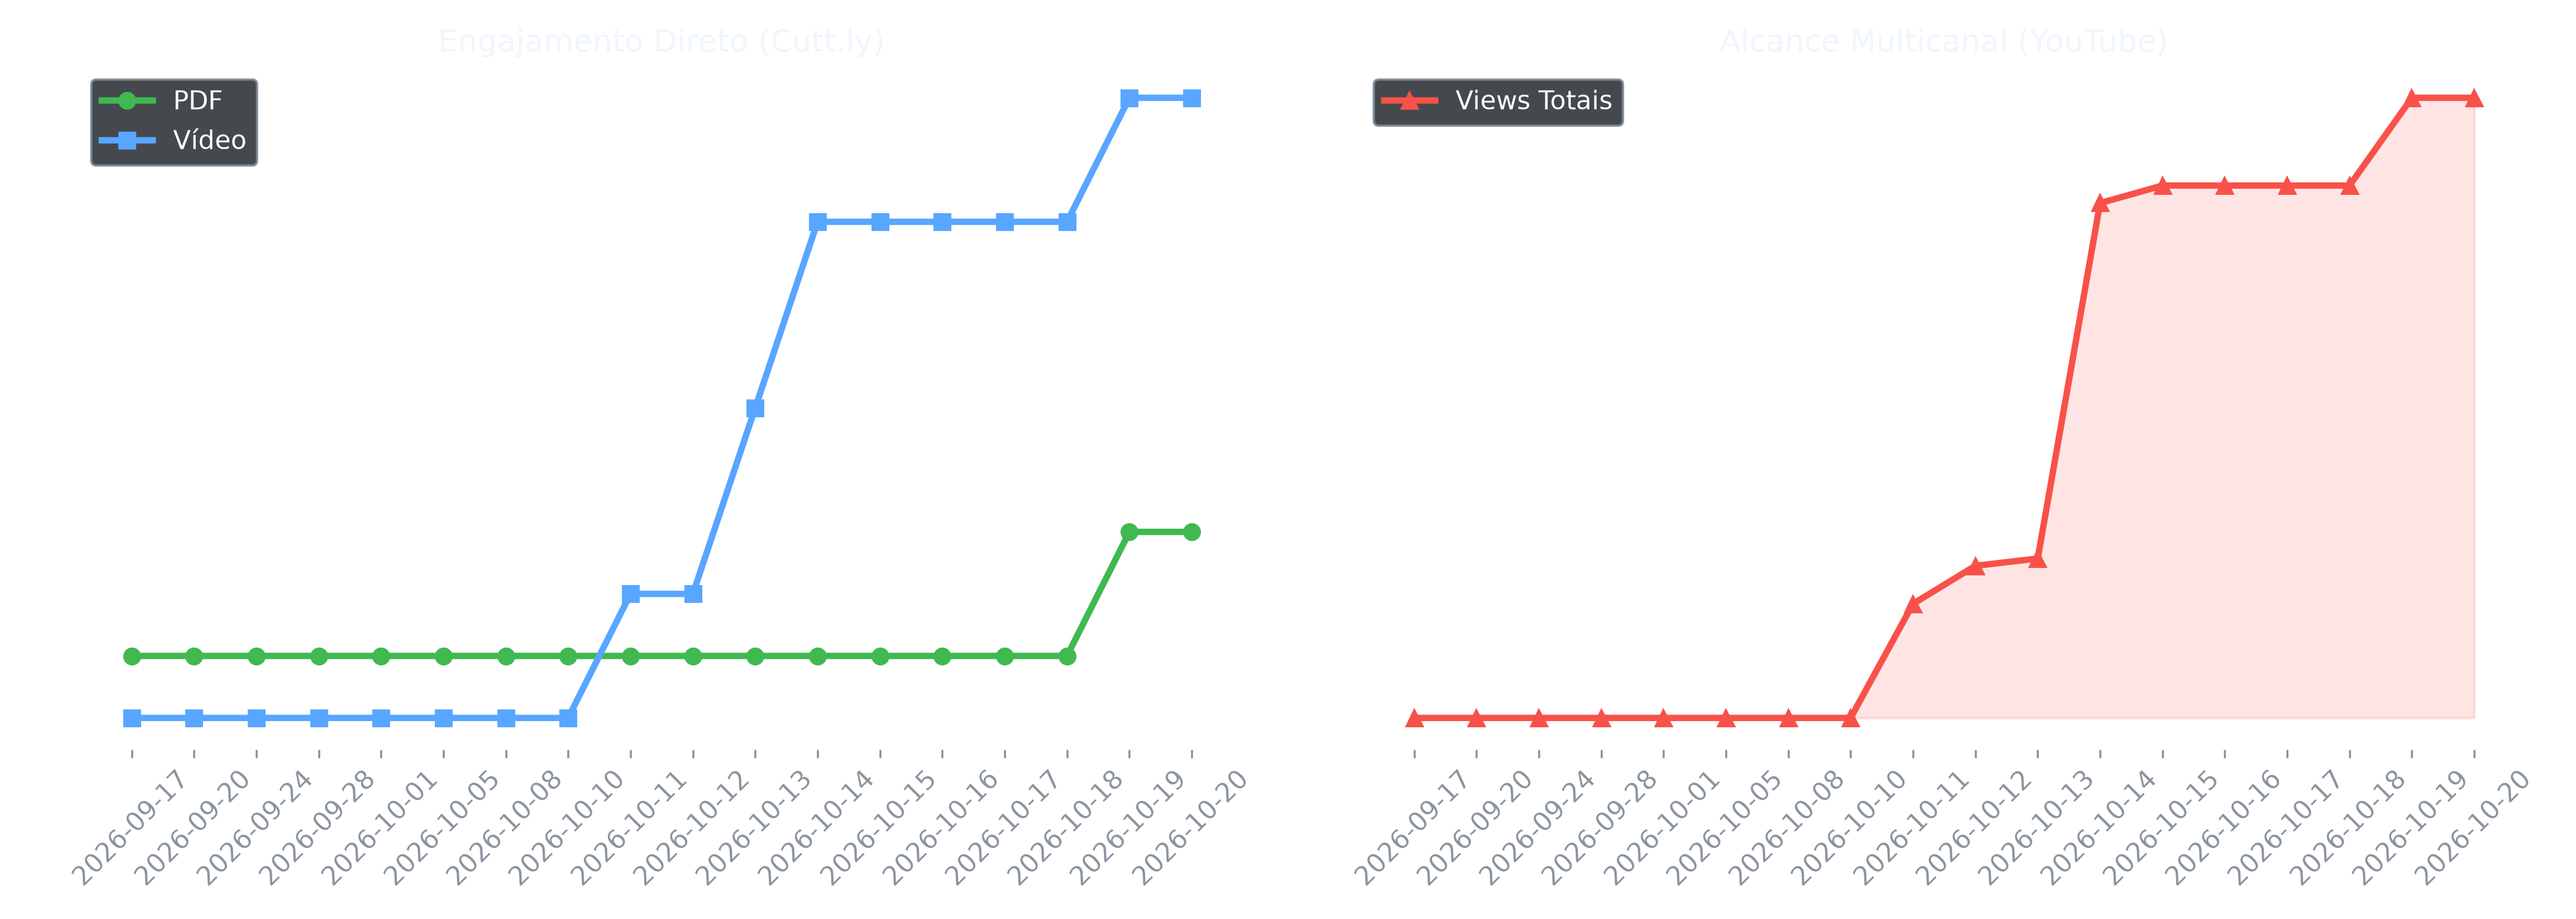
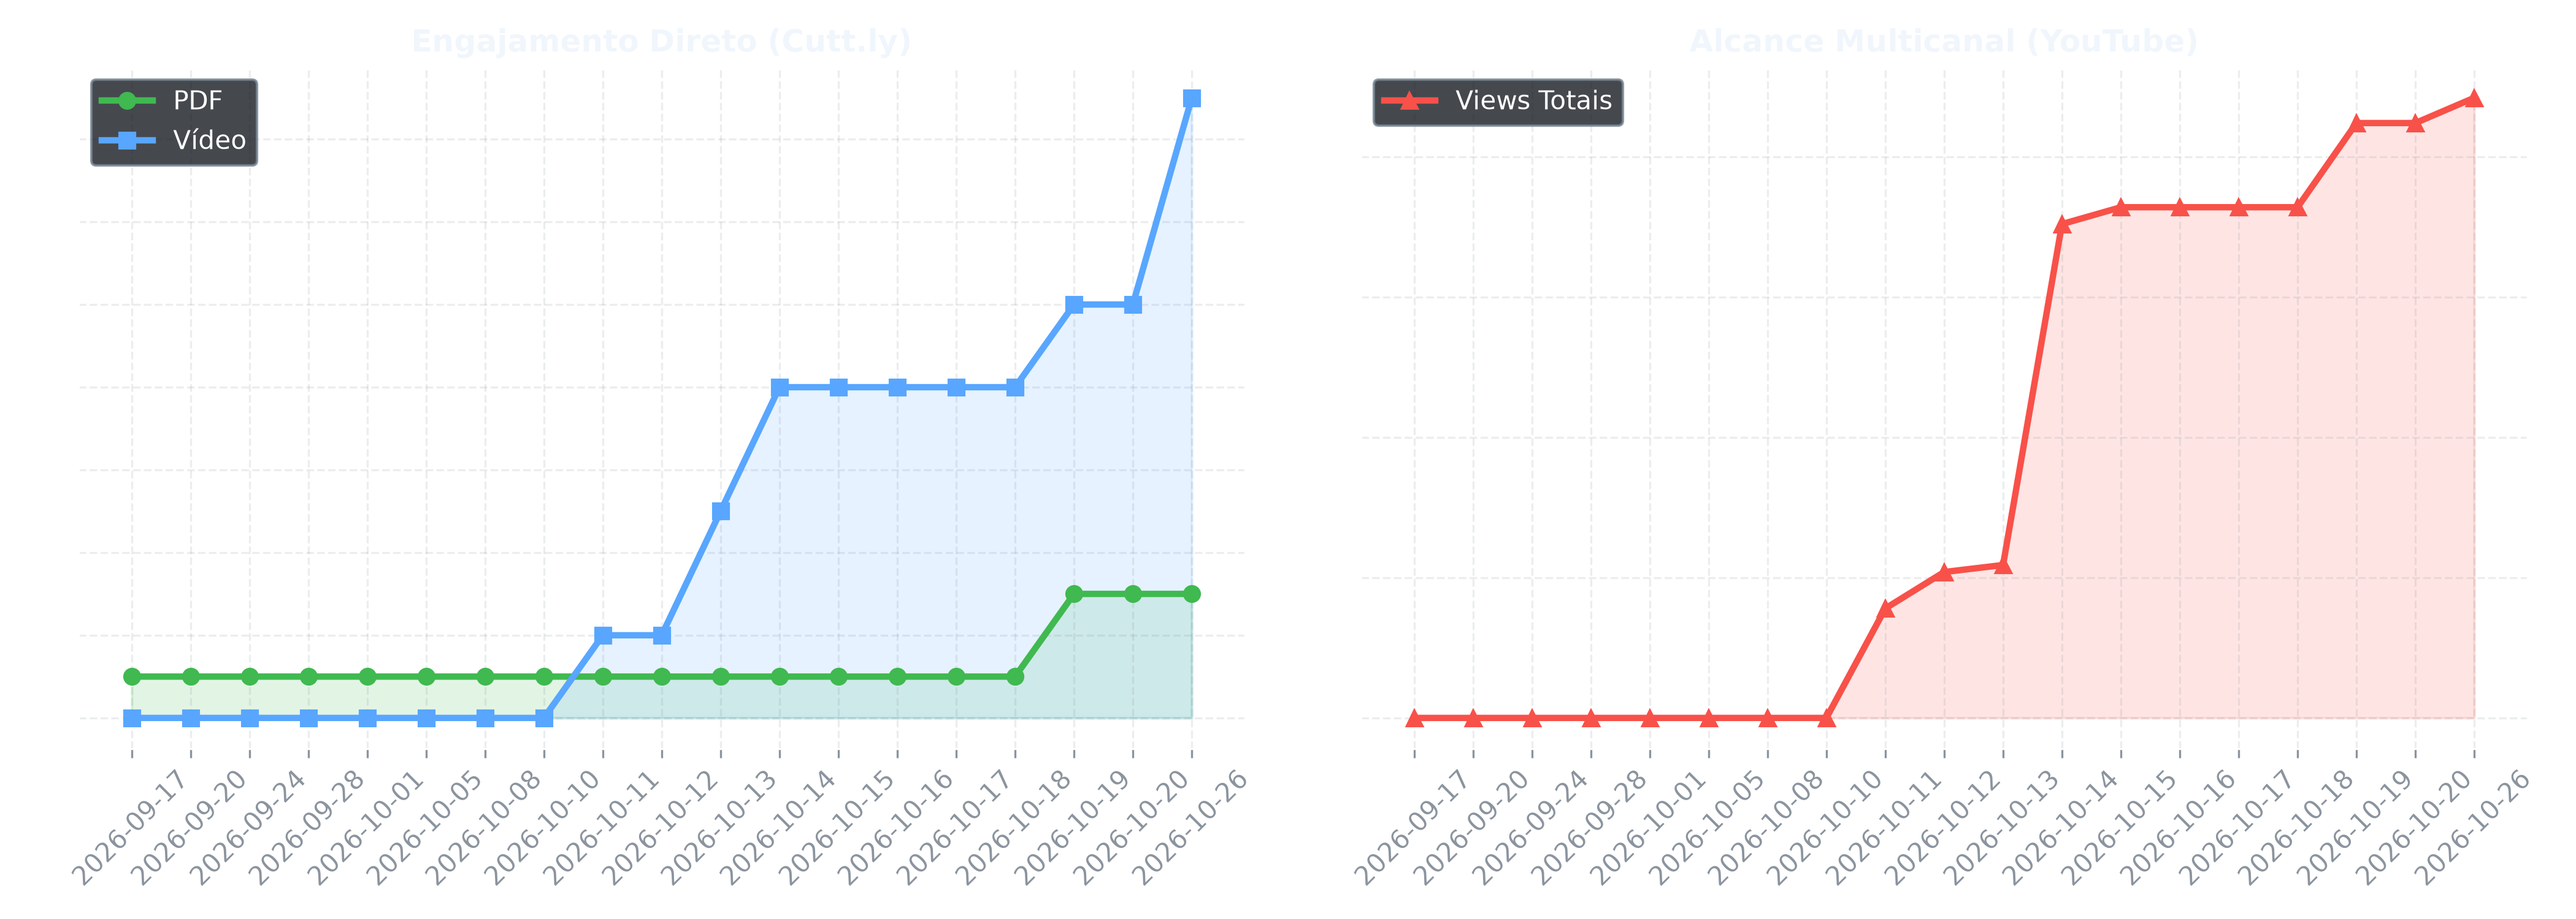
chore(telemetry): atualiza metricas para 441 views e 15 cliques via execucao local

diff --git a/README.md b/README.md
@@ -55,20 +55,20 @@ O monitoramento do projeto opera sob arquitetura bimodal, diferenciando o tráfe
 #### 1. Funil de Intenção Direta (Cutt.ly Regular API)
 Métricas rastreadas via links encurtados distribuídos nas campanhas ativas de WhatsApp:
 * 📄 **Adesão ao Material Escrito (PDF):** <!-- CLICKS_PDF_START -->**3**<!-- CLICKS_PDF_END --> download/confirmação (`cutt.ly/edu-ok`).
-* 🎬 **Acessos ao Vídeo Mestre Consolidado (141s):** <!-- CLICKS_VIDEO_START -->**10**<!-- CLICKS_VIDEO_END --> acessos direcionados (`cutt.ly/mini-guia-edu`).
-* 🕒 **Última sincronização:** <!-- DATE_START -->(Atualizado em 20/10/2026 às 09:21)<!-- DATE_END -->
+* 🎬 **Acessos ao Vídeo Mestre Consolidado (141s):** <!-- CLICKS_VIDEO_START -->**15**<!-- CLICKS_VIDEO_END --> acessos direcionados (`cutt.ly/mini-guia-edu`).
+* 🕒 **Última sincronização:** <!-- DATE_START -->(Atualizado em 26/10/2026 às 17:57)<!-- DATE_END -->
 
 #### 2. Alcance e Retenção Audiovisual (YouTube Data API v3 & Studio)
 Distribuição multicanal composta por 1 Vídeo Mestre integrador e 4 Microvídeos atômicos (Shorts):
 
 | Identificador | Artefato Audiovisual | Duração | Visualizações | Retenção Média | Função no Funil |
 | :---: | :--- | :---: | :---: | :---: | :--- |
-| `JK-YXGb64AM` | **Vídeo Mestre: Guia Prático Consolidado** | 2m 21s | <!-- YT_VIEWS_MESTRE_START -->**121**<!-- YT_VIEWS_MESTRE_END --> | 39,67% (0:55) | Demonstração integral (4 passos) |
-| `IRFwnNDrrfk` | **Parte 1: Bloqueio de Anúncios e DNS** | 0m 29s | <!-- YT_VIEWS_MV1_START -->**140**<!-- YT_VIEWS_MV1_END --> | 72,16% (0:20) | Entrada de funil / Mitigação Ad Weight |
+| `JK-YXGb64AM` | **Vídeo Mestre: Guia Prático Consolidado** | 2m 21s | <!-- YT_VIEWS_MESTRE_START -->**133**<!-- YT_VIEWS_MESTRE_END --> | 39,67% (0:55) | Demonstração integral (4 passos) |
+| `IRFwnNDrrfk` | **Parte 1: Bloqueio de Anúncios e DNS** | 0m 29s | <!-- YT_VIEWS_MV1_START -->**144**<!-- YT_VIEWS_MV1_END --> | 72,16% (0:20) | Entrada de funil / Mitigação Ad Weight |
 | `1cBKbu1aVzw` | **Parte 2: Cortando Tráfego de Dados** | 0m 34s | <!-- YT_VIEWS_MV2_START -->**109**<!-- YT_VIEWS_MV2_END --> | 53,16% (0:18) | Restrição de rede em segundo plano |
 | `FXA0WiQEX24` | **Parte 3: WhatsApp e Armazenamento** | 0m 49s | <!-- YT_VIEWS_MV3_START -->**37**<!-- YT_VIEWS_MV3_END --> | 72,31% (0:35) | Preservação de memória física |
-| `o2LVG3V4gk8` | **Parte 4: Restrição de Bateria** | 0m 33s | <!-- YT_VIEWS_MV4_START -->**17**<!-- YT_VIEWS_MV4_END --> | 28,48% (0:09) | Supressão de Tail Energy |
-| **TOTAL** | **Suíte Audiovisual Completa (5 vídeos)** | — | <!-- YT_VIEWS_START -->**424**<!-- YT_VIEWS_END --> | **47,98%** | **Alcance Global do Ecossistema** |
+| `o2LVG3V4gk8` | **Parte 4: Restrição de Bateria** | 0m 33s | <!-- YT_VIEWS_MV4_START -->**19**<!-- YT_VIEWS_MV4_END --> | 28,48% (0:09) | Supressão de Tail Energy |
+| **TOTAL** | **Suíte Audiovisual Completa (5 vídeos)** | — | <!-- YT_VIEWS_START -->**442**<!-- YT_VIEWS_END --> | **47,98%** | **Alcance Global do Ecossistema** |
 
 > **Achado de IHC e Retenção no YouTube Studio:** A fragmentação do tutorial em microvídeos (YouTube Shorts) elevou a taxa de retenção média de **39,67%** (Vídeo Mestre de 141s) para picos de **72,16%** (Parte 1) e **72,31%** (Parte 3), comprovando empiricamente que a atomização procedural reduz a sobrecarga cognitiva e maximiza o aprendizado técnico em dispositivos móveis.
 
